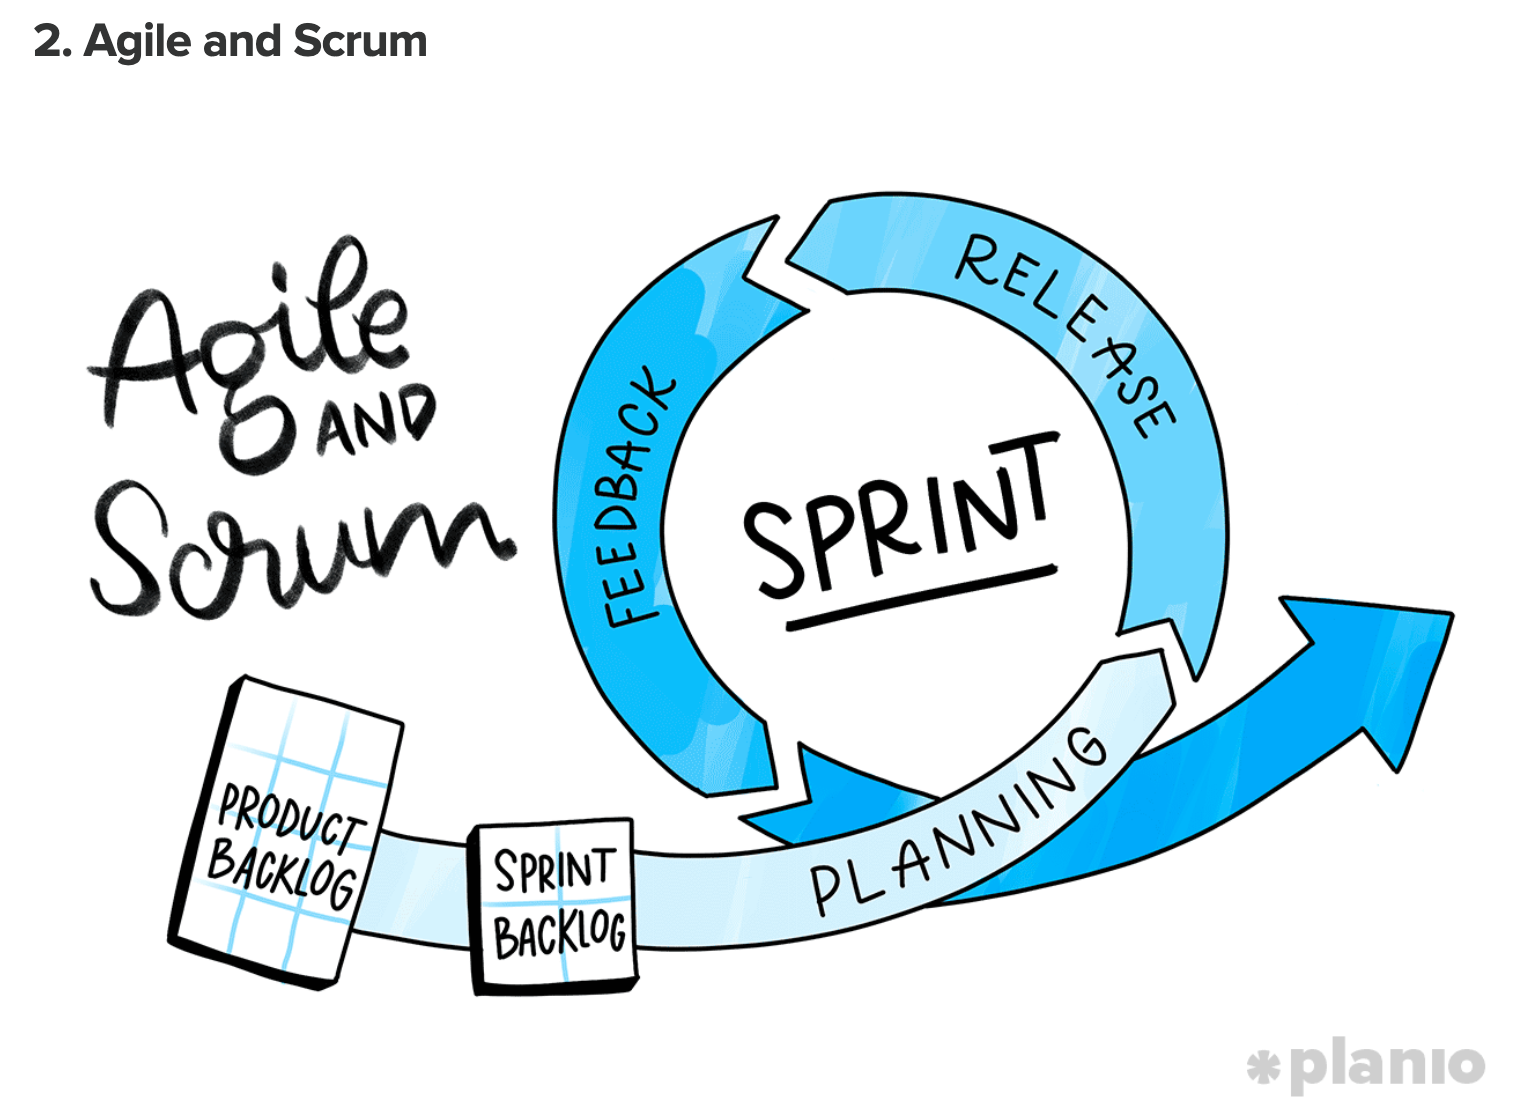
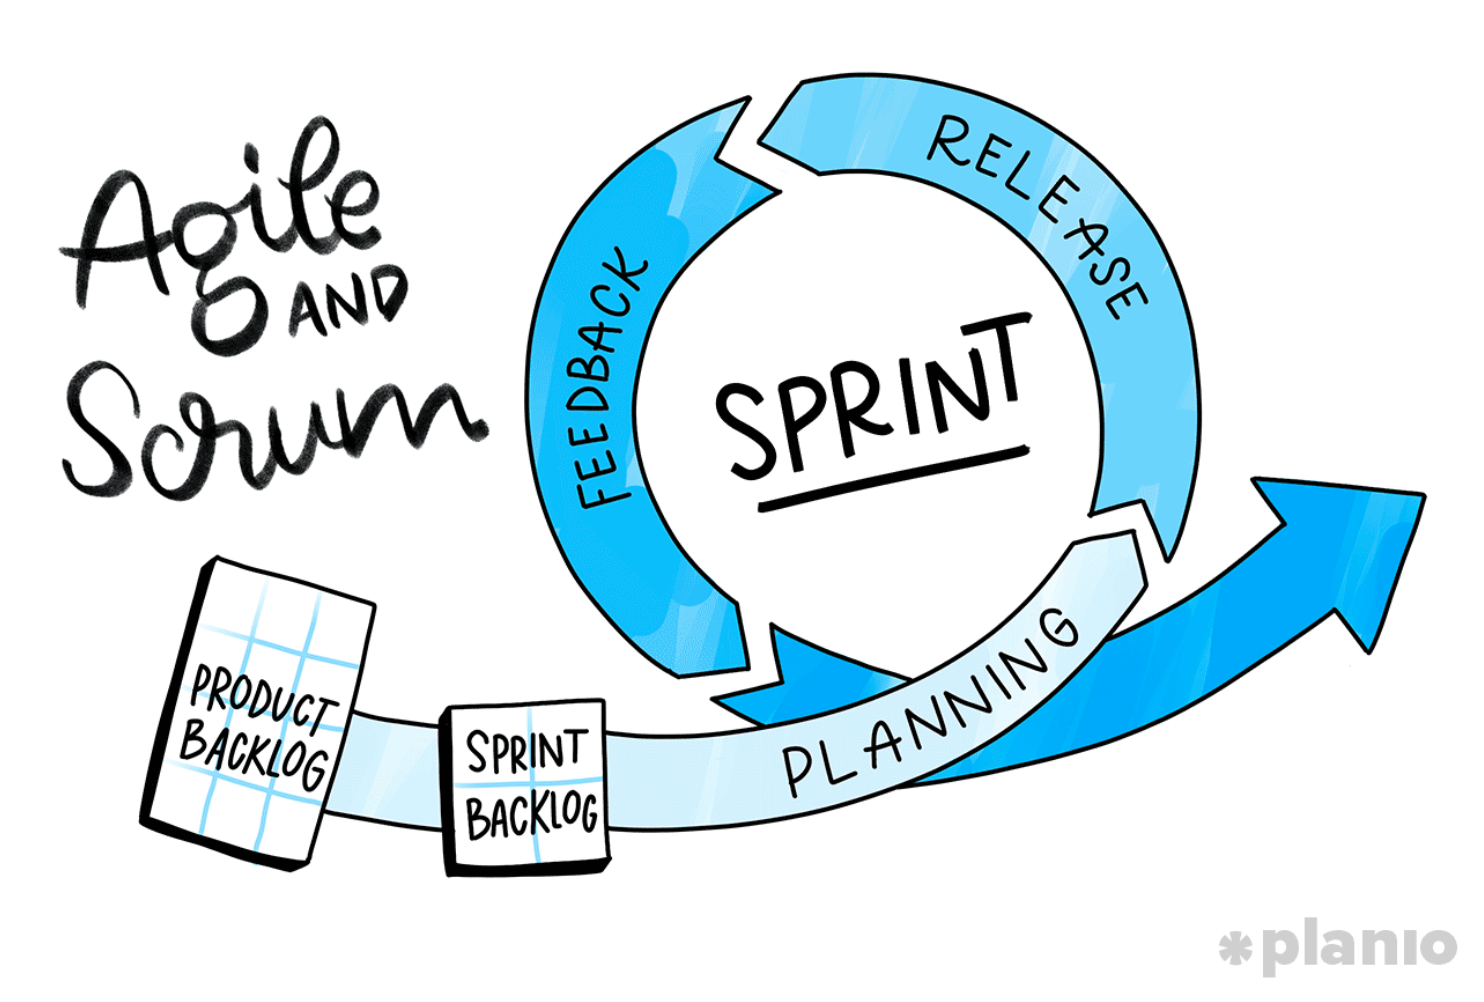
summarized different software development processes and added respective images

Changed region(s): [[0.031, 0.0619, 0.9609, 0.8972], [0.031, 0.0, 0.279, 0.0619], [0.8059, 0.8972, 0.9919, 0.99]]

diff --git a/development/process.md b/development/process.md
@@ -44,18 +44,126 @@
 
 ## Five Software Development Processes
 ### 1. Waterfall
-
+![waterfall image](../images/waterfall.png)
++ What it is:
+  + The Waterfall software development process (also known as the “linear sequential model” or “Classic lifecycle model”) is one of the oldest and most traditional models for building software. In its most basic form, you can think of the Waterfall method as following each step of the SDLC in sequence–you have to finish each one sequentially before moving on. However, in most practical applications the phases overlap slightly, with feedback and information being passed between them.
+  + Some people also like to call this a “plan-driven” process as in order to complete a project, you first need to know everything that needs to be done and in what order. Hence the name “Waterfall” as each section flows into the next one.
++ Phases:
+  + Planning
+  + Requirements
+  + System and software design
+  + Implementation
+  + Testing
+  + Deployment
+  + Maintenance/Updates
++ Who it's for:
+  + Teams with rigid structures and documentation needs.
+  + Due to its rigid structure and big up-front planning time, the Waterfall software development process works best when your goals, requirements, and technology stack are unlikely to radically change during the development process (such as during shorter one-off projects).
+  + In more practical terms, the Waterfall process is best suited for larger organizations (like government agencies) that require sign-offs and documentation on all requirements and scope before a project starts.
++ Who it's not for:
+  + If you’re testing a new product, need user feedback mid-stream, or want to be more dynamic in your development process, following the Waterfall development process probably isn’t right for you.
+  + While straightforward, this process’s biggest drawback is that it lacks flexibility. You won’t be creating and testing MVPs or prototypes and changing your mind along the way. And because of this, unless your scope is tightly written, you might end up committing to the wrong path without knowing it until launch day.
 
 ### 2. Agile and Scrum
-
+![agile and scrum image](../images/agile_scrum.png)
++ What it is:
+  + The Agile software development process (and its most popular methodology, Scrum) opt for an iterative and dynamic approach to development.
+  + As opposed to the Waterfall process’ strict, sequential flow, in Agile, cross-functional teams work in “Sprints” of 2 weeks to 2 months to build and release usable software to customers for feedback.
+  + Agile is all about moving fast, releasing often, and responding to the real needs of your users, even if it goes against what’s in your initial plan. This means you don’t need a full list of requirements and a complete SOW before starting work. Instead, you’re essentially moving in one direction with the understanding that you’ll change course along the way.
+  + There’s a lot more to Agile than just this (which we cover in this Guide to implementing Agile and Scrum). However, here’s a simple example of how it might look in practice. Let’s say you’re building a new feature for one of your products that could have X, Y, and Z features. Rather than spend months building everything, you would spend 2-4 weeks creating the bare minimum that is both useful and usable (in what’s called an “Agile Sprint”) and then release it to your customers.
++ Phases:
+  + Product Backlog
+  + Sprint backlog
+  + Sprint (Design & Develop)
+  + Release working software
+  + Feedback and validation (add to backlog)
+  + Plan next sprint
++ Who it's for:
+  + Dynamic teams doing continuous updates to products.
+  + Thanks to its dynamic and user-focused nature, Agile is the software development process favored by most startups and technology companies testing new products or doing continuous updates to long-standing ones.
+  + As it becomes easier to do small releases and gather user feedback, Agile allows companies to move faster and test theories without risking their entire livelihood on a major release their users hate. Also, as testing takes place after each small iteration, it’s easier to track bugs or roll back to a previous product version if something more serious is broken.
++ Who it's not for:
+  + Team's with extremely tight budgets and timelines.
+  + On the flipside, Agile’s dynamic nature means projects can easily go over their initial timeframe or budget, create conflicts with existing architecture, or get derailed by mismanagement. This means it’s not the best choice for risk-averse or resource-strapped teams.
+  + Additionally, using Agile and Scrum takes dedication and a solid understanding of the underlying process to pull off properly. Which is why it’s important to have at least one dedicated Scrum master on your team to make sure sprints and milestones are being hit and the project doesn’t stall out.
 
 ### 3. Incremental and Iterative
-
++ What it is:
+  + The incremental and iterative software development processes are a middle-ground between the structure and upfront planning of the Waterfall process and the flexibility of Agile.
+  + While both follow the idea of creating small bits of software and exposing them to users for feedback, they differ in what you create during each release.
+![incremental image](../images/incremental.png)
+  + In the Incremental software development process, each “incremental” increase of the product adds a simple form of a new function or feature. Think of it like coming up with an overall plan, building an MVP with only the core functionality, and then adding features based on feedback.
+![iterative image](../images/iterative.png)
+  + In the Iterative software development process, however, each version you release includes a version of all your planned features. Think of it like building a v0.1 with the most simple version of each feature and then upgrading it across the board in v0.2, v0.3, and so on.
++ Incremental Phases:
+  + Increment Planning
+    + Specifications
+    + Development
+    + Validation
+  + Repeat for each version
++ Iterative Phases:
+  + Analysis
+  + Design
+  + Development
+  + Testing (Repeat these until you’re ready to release)
++ Who it's for:
+  + Teams with clear requirement who want more flexibility than the Waterfall method provides.
+  + Both of these add a certain level of flexibility to your software development process without throwing an overall plan out the window, making them ideal for large projects with defined scopes (or teams with less risk tolerance).
+  + With the incremental process, you get early feedback on your core feature, which can help you validate your business case right away. Whereas the iterative approach gives users an early look at what the full product could be so you’re able to get better and more focused feedback.
+  + In both cases, you’re talking to users early on about what they actually want, which can save you tons of time, money, and headaches than if you waited until later in the development cycle.
++ Who it's not for:
+  + Team's without a clear long-term technology plan.
+  + Unfortunately, trying to add structure to a flexible approach has its own issues. Maybe your company’s goals, procedures, or technologies change over time, making previous iterations useless or broken. Or perhaps your codebase gets messy and bloated due to adding functionality without looking for efficiencies.
+  + Additionally, both of these models (and the iterative approach especially) require heavy planning and architecture-building early on. Meaning they aren’t ideal for smaller projects or teams who are still testing out use-cases and trying to find product-market fit.
++ What’s the difference between Incremental, Iterative, and Agile?
+  + If you just read the last few sections, you might be curious about the difference between the incremental, iterative, and Agile software development processes. While they are pretty similar, there are a few key differences.
+  + Each increment in the incremental approach builds a complete feature. While in iterative, you’re building small portions of all features.
+  + Agile, on the other hand, combines aspects of both approaches. In each Agile sprint, you build a small portion of each feature, one at a time, and then gradually add functionality and new features over time.
 
 ### 4. V-Shaped
-
+![v-shaped image](../images/v_shaped.png)
++ What it is:
+  + The V-shaped software development process is a take on the classic Waterfall method that makes up for its biggest downfall: A lack of testing.
+  + Rather than work sequentially through the development process and save all your testing for the end, each stage of the V-shaped process is followed by a strict “validation and verification” step where requirements are tested before moving on.
++ Phases:
+  + Requirements
+  + Specifications
+  + High-level design
+  + Low-level design
+  + Development
+  + Unit testing
+  + Integration testing
+  + System testing
+  + Acceptance testing
++ Who it's for:
+  + Teams working on smaller projects with a tight scope.
+  + The V-shaped software development process is great if you’ve got a small project with relatively clear (and static) requirements and scope. Instead of running the risk of following a plan only to find issues at the very end, it provides ample opportunities to test along the way.
++ Who it's not for:
+  + Teams who want more flexibility and early input from users.
+  + Even the best-laid plans often go astray. And the downsides of this process are basically the inverse of its positive features.
+  + First, there’s a lack of control due to the fact that you’re following a rigid structure and testing schedule. Without early input and feedback from your users, you still run the risk of building the wrong software for your business case. And finally, if you’re building anything beyond a simple, small project, it’s nearly impossible to create a specific enough development plan beforehand.
 
 ### 5. Spiral
+![spiral image](../images/spiral.png)
++ What it is:
+  + The Spiral software development process combines the V-shaped process’ focus on testing and risk assessment with the incremental nature of Iterative, Incremental, and Agile.
+  + Once a plan is in place for a specific iteration or milestone, the next step is to do an in-depth risk analysis to identify errors or areas of excessive risk. For example, let’s say as part of your plan you come up with a feature that hasn’t been validated with customers. Rather than just add it to your current milestone, you might build out a prototype to test with users before moving into the full development phase. After each milestone has been completed, the scope expands further out (like a spiral) and you start with planning and another risk assessment.
++ Phases:
+  + Planning
+  + Risk Assessment
+  + Development and validation
+  + Evaluate results and plan next “loop”
++ Who it's for:
+  + Risk-averse teams working on large projects.
+  + Obviously, the core purpose of a process like this is to reduce risk. If you’re working on a large or critical project that requires a high level of documentation and validation along the way, following a path like this might make sense. It’s also beneficial if a customer isn’t totally sure about the requirements and is expecting major edits during the product’s development.
++ Who it's not for:
+  + Most people.
+  + While fantastic in theory, the spiral software development process is rarely actually put into practice due to the time and costs associated with taking such a calculated approach. Instead, it’s mostly used as an example of how to think critically about an iterative approach to development.
 
-
-
+## Summary
++ Processes and plans are just guesses
++ When you’re in the early stages of building out a new piece of software, it can feel like the paths laid out in front of you are endless. But instead of being overwhelmed, take a second and remember that every software development process and method comes down to four basic principles:
+  1. Understand it: Know what you want to build and why.
+  2. Build it: Design and develop working software.
+  3. Test it: Give it to users to try and gather feedback.
+  4. Evolve it: Use that feedback to make it better.
